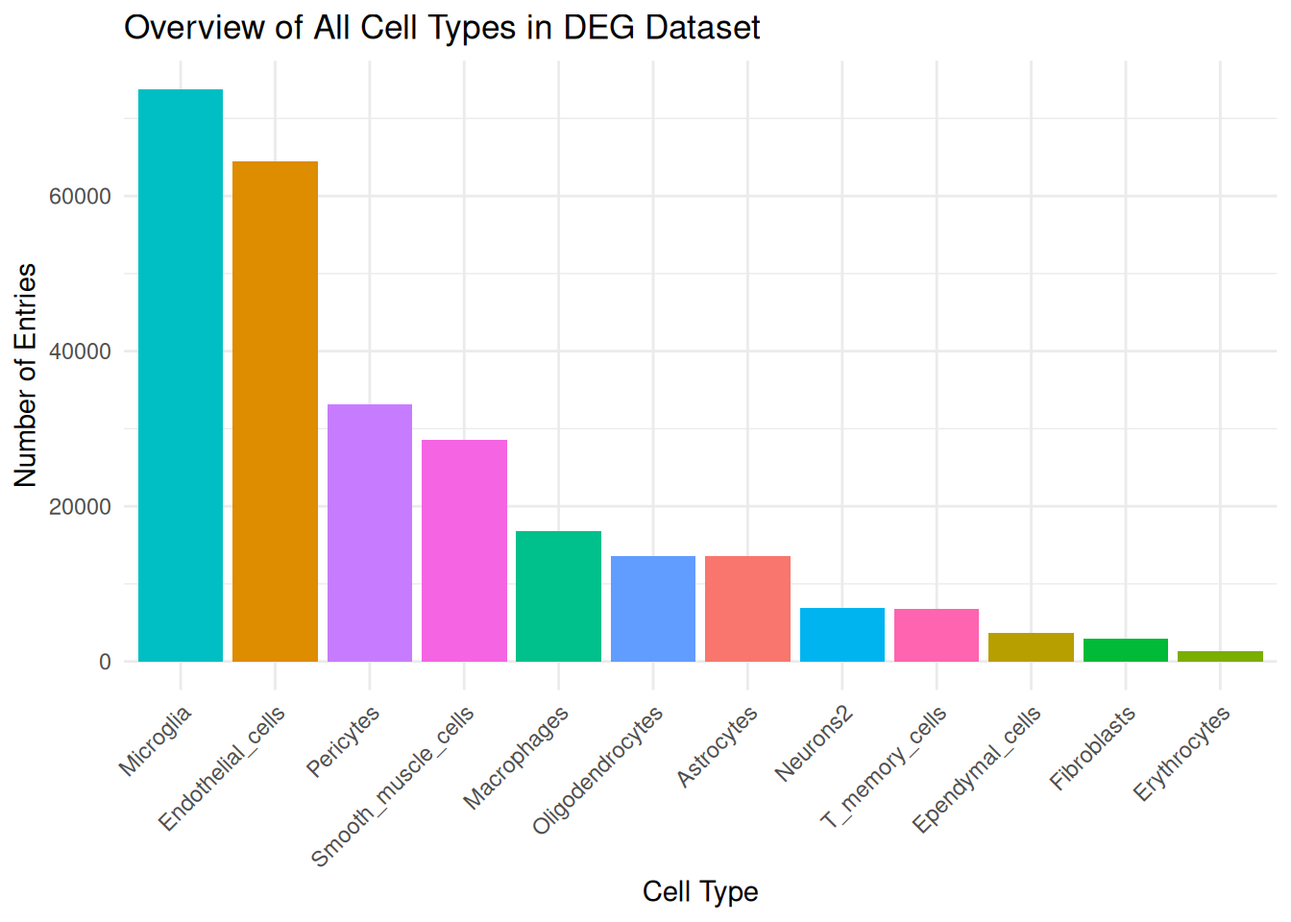
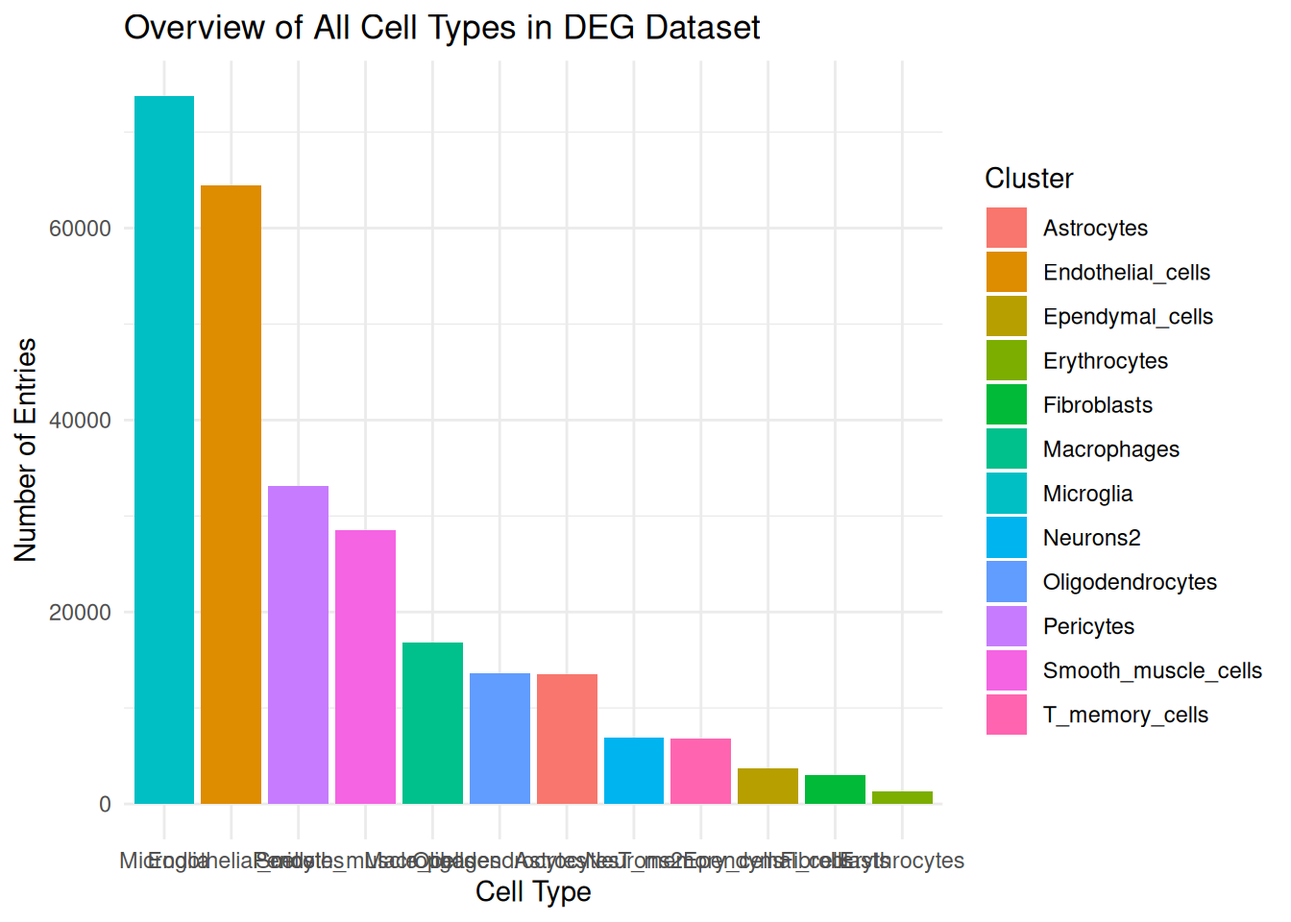
Built site for gh-pages

diff --git a/projects/Project_title.html b/projects/Project_title.html
@@ -192,7 +192,9 @@ pre > code.sourceCode > span > a:first-child::before { text-decoration: underlin
 <div class="sourceCode cell-code" id="cb2"><pre class="sourceCode r code-with-copy"><code class="sourceCode r"><span id="cb2-1"><a href="#cb2-1" aria-hidden="true" tabindex="-1"></a><span class="co"># Load necessary packages</span></span>
 <span id="cb2-2"><a href="#cb2-2" aria-hidden="true" tabindex="-1"></a><span class="fu">library</span>(tidyverse)</span>
 <span id="cb2-3"><a href="#cb2-3" aria-hidden="true" tabindex="-1"></a><span class="fu">library</span>(dplyr)</span>
-<span id="cb2-4"><a href="#cb2-4" aria-hidden="true" tabindex="-1"></a><span class="fu">library</span>(ggplot2)</span></code><button title="Copy to Clipboard" class="code-copy-button"><i class="bi"></i></button></pre></div>
+<span id="cb2-4"><a href="#cb2-4" aria-hidden="true" tabindex="-1"></a><span class="fu">library</span>(ggplot2)</span>
+<span id="cb2-5"><a href="#cb2-5" aria-hidden="true" tabindex="-1"></a><span class="fu">library</span>(tidyr)</span>
+<span id="cb2-6"><a href="#cb2-6" aria-hidden="true" tabindex="-1"></a><span class="fu">library</span>(forcats)</span></code><button title="Copy to Clipboard" class="code-copy-button"><i class="bi"></i></button></pre></div>
 </div>
 <div class="cell">
 <div class="sourceCode cell-code" id="cb3"><pre class="sourceCode r code-with-copy"><code class="sourceCode r"><span id="cb3-1"><a href="#cb3-1" aria-hidden="true" tabindex="-1"></a><span class="co">#look at the data</span></span>
@@ -221,9 +223,7 @@ pre > code.sourceCode > span > a:first-child::before { text-decoration: underlin
 <span id="cb5-9"><a href="#cb5-9" aria-hidden="true" tabindex="-1"></a>  <span class="fu">geom_bar</span>(<span class="at">stat =</span> <span class="st">"identity"</span>) <span class="sc">+</span></span>
 <span id="cb5-10"><a href="#cb5-10" aria-hidden="true" tabindex="-1"></a>  <span class="fu">labs</span>(<span class="at">title =</span> <span class="st">"Overview of All Cell Types in DEG Dataset"</span>,</span>
 <span id="cb5-11"><a href="#cb5-11" aria-hidden="true" tabindex="-1"></a>       <span class="at">x =</span> <span class="st">"Cell Type"</span>, <span class="at">y =</span> <span class="st">"Number of Entries"</span>) <span class="sc">+</span></span>
-<span id="cb5-12"><a href="#cb5-12" aria-hidden="true" tabindex="-1"></a>  <span class="fu">theme_minimal</span>() <span class="sc">+</span></span>
-<span id="cb5-13"><a href="#cb5-13" aria-hidden="true" tabindex="-1"></a>  <span class="fu">theme</span>(<span class="at">axis.text.x =</span> <span class="fu">element_text</span>(<span class="at">angle =</span> <span class="dv">45</span>, <span class="at">hjust =</span> <span class="dv">1</span>),</span>
-<span id="cb5-14"><a href="#cb5-14" aria-hidden="true" tabindex="-1"></a>        <span class="at">legend.position =</span> <span class="st">"none"</span>)</span></code><button title="Copy to Clipboard" class="code-copy-button"><i class="bi"></i></button></pre></div>
+<span id="cb5-12"><a href="#cb5-12" aria-hidden="true" tabindex="-1"></a>  <span class="fu">theme_minimal</span>()</span></code><button title="Copy to Clipboard" class="code-copy-button"><i class="bi"></i></button></pre></div>
 <div class="cell-output-display">
 <div>
 <figure class="figure">
@@ -251,7 +251,7 @@ Endothelial_cells       Macrophages    T_memory_cells
 </div>
 </div>
 <div class="cell">
-<div class="sourceCode cell-code" id="cb8"><pre class="sourceCode r code-with-copy"><code class="sourceCode r"><span id="cb8-1"><a href="#cb8-1" aria-hidden="true" tabindex="-1"></a><span class="co"># Step 1: Broader inflammation/immune gene panel</span></span>
+<div class="sourceCode cell-code" id="cb8"><pre class="sourceCode r code-with-copy"><code class="sourceCode r"><span id="cb8-1"><a href="#cb8-1" aria-hidden="true" tabindex="-1"></a><span class="co"># Step 1: Inflammation/immune gene panel</span></span>
 <span id="cb8-2"><a href="#cb8-2" aria-hidden="true" tabindex="-1"></a>inflammatory_genes <span class="ot">&lt;-</span> <span class="fu">c</span>(</span>
 <span id="cb8-3"><a href="#cb8-3" aria-hidden="true" tabindex="-1"></a>  <span class="st">"Il1b"</span>, <span class="st">"Il6"</span>, <span class="st">"Tnf"</span>, <span class="st">"Ifng"</span>, </span>
 <span id="cb8-4"><a href="#cb8-4" aria-hidden="true" tabindex="-1"></a>  <span class="st">"Ccl2"</span>, <span class="st">"Ccl3"</span>, <span class="st">"Ccl4"</span>, <span class="st">"Cxcl9"</span>, <span class="st">"Cxcl10"</span>,</span>
@@ -260,24 +260,20 @@ Endothelial_cells       Macrophages    T_memory_cells
 <span id="cb8-7"><a href="#cb8-7" aria-hidden="true" tabindex="-1"></a>  <span class="st">"Icam1"</span>, <span class="st">"Vcam1"</span>, <span class="st">"Sele"</span>, <span class="st">"Sell"</span>, </span>
 <span id="cb8-8"><a href="#cb8-8" aria-hidden="true" tabindex="-1"></a>  <span class="st">"Lyz2"</span>, <span class="st">"Nos2"</span>, <span class="st">"Ptprc"</span>)</span>
 <span id="cb8-9"><a href="#cb8-9" aria-hidden="true" tabindex="-1"></a></span>
-<span id="cb8-10"><a href="#cb8-10" aria-hidden="true" tabindex="-1"></a><span class="co"># Step 2: Filter for the genes and relevant cell types</span></span>
-<span id="cb8-11"><a href="#cb8-11" aria-hidden="true" tabindex="-1"></a>cell_types_focus <span class="ot">&lt;-</span> <span class="fu">c</span>(<span class="st">"Endothelial_cells"</span>, <span class="st">"Macrophages"</span>, <span class="st">"T_memory_cells"</span>)</span>
-<span id="cb8-12"><a href="#cb8-12" aria-hidden="true" tabindex="-1"></a></span>
-<span id="cb8-13"><a href="#cb8-13" aria-hidden="true" tabindex="-1"></a>inflamm_subset <span class="ot">&lt;-</span> DEG_data <span class="sc">%&gt;%</span></span>
-<span id="cb8-14"><a href="#cb8-14" aria-hidden="true" tabindex="-1"></a>  <span class="fu">filter</span>(Cluster <span class="sc">%in%</span> cell_types_focus,</span>
-<span id="cb8-15"><a href="#cb8-15" aria-hidden="true" tabindex="-1"></a>         gene_symbol <span class="sc">%in%</span> inflammatory_genes,</span>
-<span id="cb8-16"><a href="#cb8-16" aria-hidden="true" tabindex="-1"></a>         ident<span class="fl">.1</span> <span class="sc">==</span> <span class="st">"G2_old"</span>, ident<span class="fl">.2</span> <span class="sc">==</span> <span class="st">"G1_young"</span>)  <span class="co"># ensure aged vs young only</span></span>
-<span id="cb8-17"><a href="#cb8-17" aria-hidden="true" tabindex="-1"></a></span>
-<span id="cb8-18"><a href="#cb8-18" aria-hidden="true" tabindex="-1"></a><span class="co"># Step 3: Plot as ggplot heatmap</span></span>
-<span id="cb8-19"><a href="#cb8-19" aria-hidden="true" tabindex="-1"></a><span class="fu">ggplot</span>(inflamm_subset, <span class="fu">aes</span>(<span class="at">x =</span> Cluster, <span class="at">y =</span> gene_symbol, <span class="at">fill =</span> avg_log2FC)) <span class="sc">+</span></span>
-<span id="cb8-20"><a href="#cb8-20" aria-hidden="true" tabindex="-1"></a>  <span class="fu">geom_tile</span>(<span class="at">color =</span> <span class="st">"white"</span>) <span class="sc">+</span></span>
-<span id="cb8-21"><a href="#cb8-21" aria-hidden="true" tabindex="-1"></a>  <span class="fu">scale_fill_gradient2</span>(<span class="at">low =</span> <span class="st">"blue"</span>, <span class="at">mid =</span> <span class="st">"white"</span>, <span class="at">high =</span> <span class="st">"red"</span>, <span class="at">midpoint =</span> <span class="dv">0</span>,</span>
-<span id="cb8-22"><a href="#cb8-22" aria-hidden="true" tabindex="-1"></a>                       <span class="at">name =</span> <span class="st">"log2FC"</span>) <span class="sc">+</span></span>
-<span id="cb8-23"><a href="#cb8-23" aria-hidden="true" tabindex="-1"></a>  <span class="fu">labs</span>(<span class="at">title =</span> <span class="st">"Log2 Fold Change of Broad Inflammatory Genes (Aged vs. Young)"</span>,</span>
-<span id="cb8-24"><a href="#cb8-24" aria-hidden="true" tabindex="-1"></a>       <span class="at">x =</span> <span class="st">"Cell Type"</span>, <span class="at">y =</span> <span class="st">"Gene"</span>) <span class="sc">+</span></span>
-<span id="cb8-25"><a href="#cb8-25" aria-hidden="true" tabindex="-1"></a>  <span class="fu">theme_minimal</span>() <span class="sc">+</span></span>
-<span id="cb8-26"><a href="#cb8-26" aria-hidden="true" tabindex="-1"></a>  <span class="fu">theme</span>(<span class="at">axis.text.x =</span> <span class="fu">element_text</span>(<span class="at">angle =</span> <span class="dv">45</span>, <span class="at">hjust =</span> <span class="dv">1</span>),</span>
-<span id="cb8-27"><a href="#cb8-27" aria-hidden="true" tabindex="-1"></a>        <span class="at">panel.grid =</span> <span class="fu">element_blank</span>())</span></code><button title="Copy to Clipboard" class="code-copy-button"><i class="bi"></i></button></pre></div>
+<span id="cb8-10"><a href="#cb8-10" aria-hidden="true" tabindex="-1"></a></span>
+<span id="cb8-11"><a href="#cb8-11" aria-hidden="true" tabindex="-1"></a>inflamm_subset <span class="ot">&lt;-</span> DEG_data <span class="sc">%&gt;%</span></span>
+<span id="cb8-12"><a href="#cb8-12" aria-hidden="true" tabindex="-1"></a>  <span class="fu">filter</span>(Cluster <span class="sc">%in%</span> cell_types,</span>
+<span id="cb8-13"><a href="#cb8-13" aria-hidden="true" tabindex="-1"></a>         gene_symbol <span class="sc">%in%</span> inflammatory_genes,</span>
+<span id="cb8-14"><a href="#cb8-14" aria-hidden="true" tabindex="-1"></a>         ident<span class="fl">.1</span> <span class="sc">==</span> <span class="st">"G2_old"</span>, ident<span class="fl">.2</span> <span class="sc">==</span> <span class="st">"G1_young"</span>)  <span class="co"># ensure aged vs young only</span></span>
+<span id="cb8-15"><a href="#cb8-15" aria-hidden="true" tabindex="-1"></a></span>
+<span id="cb8-16"><a href="#cb8-16" aria-hidden="true" tabindex="-1"></a><span class="co"># Step 3: Plot as ggplot heatmap</span></span>
+<span id="cb8-17"><a href="#cb8-17" aria-hidden="true" tabindex="-1"></a><span class="fu">ggplot</span>(inflamm_subset, <span class="fu">aes</span>(<span class="at">x =</span> Cluster, <span class="at">y =</span> gene_symbol, <span class="at">fill =</span> avg_log2FC)) <span class="sc">+</span></span>
+<span id="cb8-18"><a href="#cb8-18" aria-hidden="true" tabindex="-1"></a>  <span class="fu">geom_tile</span>(<span class="at">color =</span> <span class="st">"white"</span>) <span class="sc">+</span></span>
+<span id="cb8-19"><a href="#cb8-19" aria-hidden="true" tabindex="-1"></a>  <span class="fu">scale_fill_gradient2</span>(<span class="at">low =</span> <span class="st">"blue"</span>, <span class="at">mid =</span> <span class="st">"white"</span>, <span class="at">high =</span> <span class="st">"red"</span>, <span class="at">midpoint =</span> <span class="dv">0</span>,</span>
+<span id="cb8-20"><a href="#cb8-20" aria-hidden="true" tabindex="-1"></a>                       <span class="at">name =</span> <span class="st">"log2FC"</span>) <span class="sc">+</span></span>
+<span id="cb8-21"><a href="#cb8-21" aria-hidden="true" tabindex="-1"></a>  <span class="fu">labs</span>(<span class="at">title =</span> <span class="st">"Log2 Fold Change of Broad Inflammatory Genes (Aged vs. Young)"</span>,</span>
+<span id="cb8-22"><a href="#cb8-22" aria-hidden="true" tabindex="-1"></a>       <span class="at">x =</span> <span class="st">"Cell Type"</span>, <span class="at">y =</span> <span class="st">"Gene"</span>) <span class="sc">+</span></span>
+<span id="cb8-23"><a href="#cb8-23" aria-hidden="true" tabindex="-1"></a>  <span class="fu">theme_minimal</span>()</span></code><button title="Copy to Clipboard" class="code-copy-button"><i class="bi"></i></button></pre></div>
 <div class="cell-output-display">
 <div>
 <figure class="figure">
@@ -289,7 +285,7 @@ Endothelial_cells       Macrophages    T_memory_cells
 </section>
 <section id="gene-function-summary" class="level2">
 <h2 class="anchored" data-anchor-id="gene-function-summary">Gene Function Summary</h2>
-<p>These genes were selected for their roles in inflammation, immune regulation, or endothelial interactions relevant to brain aging:</p>
+<p>These genes were selected for their roles in inflammation, immune regulation, or endothelial interactions:</p>
 <table class="caption-top table">
 <colgroup>
 <col style="width: 44%">
@@ -385,32 +381,61 @@ Endothelial_cells       Macrophages    T_memory_cells
 </div>
 </div>
 <div class="cell">
-<div class="sourceCode cell-code" id="cb10"><pre class="sourceCode r code-with-copy"><code class="sourceCode r"><span id="cb10-1"><a href="#cb10-1" aria-hidden="true" tabindex="-1"></a><span class="fu">library</span>(dplyr)</span>
-<span id="cb10-2"><a href="#cb10-2" aria-hidden="true" tabindex="-1"></a><span class="fu">library</span>(tidyr)</span>
-<span id="cb10-3"><a href="#cb10-3" aria-hidden="true" tabindex="-1"></a><span class="fu">library</span>(ggplot2)</span>
-<span id="cb10-4"><a href="#cb10-4" aria-hidden="true" tabindex="-1"></a><span class="fu">library</span>(forcats)</span>
-<span id="cb10-5"><a href="#cb10-5" aria-hidden="true" tabindex="-1"></a></span>
-<span id="cb10-6"><a href="#cb10-6" aria-hidden="true" tabindex="-1"></a>cell_types_focus <span class="ot">&lt;-</span> <span class="fu">c</span>(<span class="st">"Endothelial_cells"</span>, <span class="st">"Macrophages"</span>, <span class="st">"T_memory_cells"</span>)</span>
-<span id="cb10-7"><a href="#cb10-7" aria-hidden="true" tabindex="-1"></a></span>
-<span id="cb10-8"><a href="#cb10-8" aria-hidden="true" tabindex="-1"></a>sig_deg <span class="ot">&lt;-</span> DEG_data <span class="sc">%&gt;%</span></span>
-<span id="cb10-9"><a href="#cb10-9" aria-hidden="true" tabindex="-1"></a>  <span class="fu">filter</span>(Cluster <span class="sc">%in%</span> cell_types_focus,</span>
-<span id="cb10-10"><a href="#cb10-10" aria-hidden="true" tabindex="-1"></a>         ident<span class="fl">.1</span> <span class="sc">==</span> <span class="st">"G2_old"</span>, ident<span class="fl">.2</span> <span class="sc">==</span> <span class="st">"G1_young"</span>,</span>
-<span id="cb10-11"><a href="#cb10-11" aria-hidden="true" tabindex="-1"></a>         p_val_adj <span class="sc">&lt;</span> <span class="fl">0.05</span>)</span>
-<span id="cb10-12"><a href="#cb10-12" aria-hidden="true" tabindex="-1"></a></span>
-<span id="cb10-13"><a href="#cb10-13" aria-hidden="true" tabindex="-1"></a>top_up   <span class="ot">&lt;-</span> sig_deg <span class="sc">%&gt;%</span></span>
-<span id="cb10-14"><a href="#cb10-14" aria-hidden="true" tabindex="-1"></a>  <span class="fu">group_by</span>(Cluster) <span class="sc">%&gt;%</span></span>
-<span id="cb10-15"><a href="#cb10-15" aria-hidden="true" tabindex="-1"></a>  <span class="fu">slice_max</span>(<span class="at">order_by =</span> avg_log2FC, <span class="at">n =</span> <span class="dv">10</span>, <span class="at">with_ties =</span> <span class="cn">FALSE</span>) <span class="sc">%&gt;%</span></span>
-<span id="cb10-16"><a href="#cb10-16" aria-hidden="true" tabindex="-1"></a>  <span class="fu">mutate</span>(<span class="at">direction =</span> <span class="st">"Up (old vs young)"</span>)</span>
-<span id="cb10-17"><a href="#cb10-17" aria-hidden="true" tabindex="-1"></a></span>
-<span id="cb10-18"><a href="#cb10-18" aria-hidden="true" tabindex="-1"></a>top_down <span class="ot">&lt;-</span> sig_deg <span class="sc">%&gt;%</span></span>
-<span id="cb10-19"><a href="#cb10-19" aria-hidden="true" tabindex="-1"></a>  <span class="fu">group_by</span>(Cluster) <span class="sc">%&gt;%</span></span>
-<span id="cb10-20"><a href="#cb10-20" aria-hidden="true" tabindex="-1"></a>  <span class="fu">slice_min</span>(<span class="at">order_by =</span> avg_log2FC, <span class="at">n =</span> <span class="dv">10</span>, <span class="at">with_ties =</span> <span class="cn">FALSE</span>) <span class="sc">%&gt;%</span></span>
-<span id="cb10-21"><a href="#cb10-21" aria-hidden="true" tabindex="-1"></a>  <span class="fu">mutate</span>(<span class="at">direction =</span> <span class="st">"Down (old vs young)"</span>)</span>
-<span id="cb10-22"><a href="#cb10-22" aria-hidden="true" tabindex="-1"></a></span>
-<span id="cb10-23"><a href="#cb10-23" aria-hidden="true" tabindex="-1"></a>top10_both <span class="ot">&lt;-</span> <span class="fu">bind_rows</span>(top_up, top_down) <span class="sc">%&gt;%</span></span>
-<span id="cb10-24"><a href="#cb10-24" aria-hidden="true" tabindex="-1"></a>  <span class="fu">arrange</span>(Cluster, <span class="fu">desc</span>(avg_log2FC))</span>
-<span id="cb10-25"><a href="#cb10-25" aria-hidden="true" tabindex="-1"></a></span>
-<span id="cb10-26"><a href="#cb10-26" aria-hidden="true" tabindex="-1"></a>top10_both</span></code><button title="Copy to Clipboard" class="code-copy-button"><i class="bi"></i></button></pre></div>
+<div class="sourceCode cell-code" id="cb10"><pre class="sourceCode r code-with-copy"><code class="sourceCode r"><span id="cb10-1"><a href="#cb10-1" aria-hidden="true" tabindex="-1"></a><span class="co"># Filter for macrophages aged vs young</span></span>
+<span id="cb10-2"><a href="#cb10-2" aria-hidden="true" tabindex="-1"></a>macrophage_deg <span class="ot">&lt;-</span> DEG_data <span class="sc">%&gt;%</span></span>
+<span id="cb10-3"><a href="#cb10-3" aria-hidden="true" tabindex="-1"></a>  <span class="fu">filter</span>(Cluster <span class="sc">==</span> <span class="st">"Macrophages"</span>,</span>
+<span id="cb10-4"><a href="#cb10-4" aria-hidden="true" tabindex="-1"></a>         ident<span class="fl">.1</span> <span class="sc">==</span> <span class="st">"G2_old"</span>, ident<span class="fl">.2</span> <span class="sc">==</span> <span class="st">"G1_young"</span>) <span class="sc">%&gt;%</span></span>
+<span id="cb10-5"><a href="#cb10-5" aria-hidden="true" tabindex="-1"></a>  <span class="fu">mutate</span>(<span class="at">log10_pval =</span> <span class="sc">-</span><span class="fu">log10</span>(p_val_adj),</span>
+<span id="cb10-6"><a href="#cb10-6" aria-hidden="true" tabindex="-1"></a>         <span class="at">regulation =</span> <span class="fu">case_when</span>(</span>
+<span id="cb10-7"><a href="#cb10-7" aria-hidden="true" tabindex="-1"></a>           p_val_adj <span class="sc">&lt;</span> <span class="fl">0.05</span> <span class="sc">&amp;</span> avg_log2FC <span class="sc">&gt;</span> <span class="dv">1</span> <span class="sc">~</span> <span class="st">"Upregulated"</span>,</span>
+<span id="cb10-8"><a href="#cb10-8" aria-hidden="true" tabindex="-1"></a>           p_val_adj <span class="sc">&lt;</span> <span class="fl">0.05</span> <span class="sc">&amp;</span> avg_log2FC <span class="sc">&lt;</span> <span class="sc">-</span><span class="dv">1</span> <span class="sc">~</span> <span class="st">"Downregulated"</span>,</span>
+<span id="cb10-9"><a href="#cb10-9" aria-hidden="true" tabindex="-1"></a>           <span class="cn">TRUE</span> <span class="sc">~</span> <span class="st">"Not significant"</span></span>
+<span id="cb10-10"><a href="#cb10-10" aria-hidden="true" tabindex="-1"></a>         ))</span>
+<span id="cb10-11"><a href="#cb10-11" aria-hidden="true" tabindex="-1"></a></span>
+<span id="cb10-12"><a href="#cb10-12" aria-hidden="true" tabindex="-1"></a><span class="co"># Plot</span></span>
+<span id="cb10-13"><a href="#cb10-13" aria-hidden="true" tabindex="-1"></a><span class="fu">ggplot</span>(macrophage_deg, <span class="fu">aes</span>(<span class="at">x =</span> avg_log2FC, <span class="at">y =</span> log10_pval)) <span class="sc">+</span></span>
+<span id="cb10-14"><a href="#cb10-14" aria-hidden="true" tabindex="-1"></a>  <span class="fu">geom_point</span>(<span class="fu">aes</span>(<span class="at">color =</span> regulation), <span class="at">alpha =</span> <span class="fl">0.7</span>, <span class="at">size =</span> <span class="dv">2</span>) <span class="sc">+</span></span>
+<span id="cb10-15"><a href="#cb10-15" aria-hidden="true" tabindex="-1"></a>  <span class="fu">scale_color_manual</span>(<span class="at">values =</span> <span class="fu">c</span>(</span>
+<span id="cb10-16"><a href="#cb10-16" aria-hidden="true" tabindex="-1"></a>    <span class="st">"Upregulated"</span> <span class="ot">=</span> <span class="st">"firebrick2"</span>,</span>
+<span id="cb10-17"><a href="#cb10-17" aria-hidden="true" tabindex="-1"></a>    <span class="st">"Downregulated"</span> <span class="ot">=</span> <span class="st">"dodgerblue3"</span>,</span>
+<span id="cb10-18"><a href="#cb10-18" aria-hidden="true" tabindex="-1"></a>    <span class="st">"Not significant"</span> <span class="ot">=</span> <span class="st">"grey70"</span></span>
+<span id="cb10-19"><a href="#cb10-19" aria-hidden="true" tabindex="-1"></a>  )) <span class="sc">+</span></span>
+<span id="cb10-20"><a href="#cb10-20" aria-hidden="true" tabindex="-1"></a>  <span class="fu">geom_vline</span>(<span class="at">xintercept =</span> <span class="fu">c</span>(<span class="sc">-</span><span class="dv">1</span>, <span class="dv">1</span>), <span class="at">linetype =</span> <span class="st">"dashed"</span>, <span class="at">color =</span> <span class="st">"gray50"</span>) <span class="sc">+</span></span>
+<span id="cb10-21"><a href="#cb10-21" aria-hidden="true" tabindex="-1"></a>  <span class="fu">geom_hline</span>(<span class="at">yintercept =</span> <span class="sc">-</span><span class="fu">log10</span>(<span class="fl">0.05</span>), <span class="at">linetype =</span> <span class="st">"dashed"</span>, <span class="at">color =</span> <span class="st">"gray50"</span>) <span class="sc">+</span></span>
+<span id="cb10-22"><a href="#cb10-22" aria-hidden="true" tabindex="-1"></a>  <span class="fu">labs</span>(<span class="at">title =</span> <span class="st">"Volcano Plot: Macrophages (Aged vs Young)"</span>,</span>
+<span id="cb10-23"><a href="#cb10-23" aria-hidden="true" tabindex="-1"></a>       <span class="at">x =</span> <span class="st">"log2 Fold Change"</span>,</span>
+<span id="cb10-24"><a href="#cb10-24" aria-hidden="true" tabindex="-1"></a>       <span class="at">y =</span> <span class="st">"-log10 Adjusted p-value"</span>,</span>
+<span id="cb10-25"><a href="#cb10-25" aria-hidden="true" tabindex="-1"></a>       <span class="at">color =</span> <span class="st">"Regulation"</span>) <span class="sc">+</span></span>
+<span id="cb10-26"><a href="#cb10-26" aria-hidden="true" tabindex="-1"></a>  <span class="fu">theme_minimal</span>(<span class="at">base_size =</span> <span class="dv">13</span>) <span class="sc">+</span></span>
+<span id="cb10-27"><a href="#cb10-27" aria-hidden="true" tabindex="-1"></a>  <span class="fu">theme</span>(<span class="at">legend.position =</span> <span class="st">"top"</span>)</span></code><button title="Copy to Clipboard" class="code-copy-button"><i class="bi"></i></button></pre></div>
+<div class="cell-output-display">
+<div>
+<figure class="figure">
+<p><img src="Project_title_files/figure-html/unnamed-chunk-8-1.png" class="img-fluid figure-img" width="672"></p>
+</figure>
+</div>
+</div>
+</div>
+<div class="cell">
+<div class="sourceCode cell-code" id="cb11"><pre class="sourceCode r code-with-copy"><code class="sourceCode r"><span id="cb11-1"><a href="#cb11-1" aria-hidden="true" tabindex="-1"></a>sig_deg <span class="ot">&lt;-</span> DEG_data <span class="sc">%&gt;%</span></span>
+<span id="cb11-2"><a href="#cb11-2" aria-hidden="true" tabindex="-1"></a>  <span class="fu">filter</span>(Cluster <span class="sc">%in%</span> cell_types,</span>
+<span id="cb11-3"><a href="#cb11-3" aria-hidden="true" tabindex="-1"></a>         ident<span class="fl">.1</span> <span class="sc">==</span> <span class="st">"G2_old"</span>, ident<span class="fl">.2</span> <span class="sc">==</span> <span class="st">"G1_young"</span>,</span>
+<span id="cb11-4"><a href="#cb11-4" aria-hidden="true" tabindex="-1"></a>         p_val_adj <span class="sc">&lt;</span> <span class="fl">0.05</span>)</span>
+<span id="cb11-5"><a href="#cb11-5" aria-hidden="true" tabindex="-1"></a></span>
+<span id="cb11-6"><a href="#cb11-6" aria-hidden="true" tabindex="-1"></a>top_up   <span class="ot">&lt;-</span> sig_deg <span class="sc">%&gt;%</span></span>
+<span id="cb11-7"><a href="#cb11-7" aria-hidden="true" tabindex="-1"></a>  <span class="fu">group_by</span>(Cluster) <span class="sc">%&gt;%</span></span>
+<span id="cb11-8"><a href="#cb11-8" aria-hidden="true" tabindex="-1"></a>  <span class="fu">slice_max</span>(<span class="at">order_by =</span> avg_log2FC, <span class="at">n =</span> <span class="dv">10</span>, <span class="at">with_ties =</span> <span class="cn">FALSE</span>) <span class="sc">%&gt;%</span></span>
+<span id="cb11-9"><a href="#cb11-9" aria-hidden="true" tabindex="-1"></a>  <span class="fu">mutate</span>(<span class="at">direction =</span> <span class="st">"Up (old vs young)"</span>)</span>
+<span id="cb11-10"><a href="#cb11-10" aria-hidden="true" tabindex="-1"></a></span>
+<span id="cb11-11"><a href="#cb11-11" aria-hidden="true" tabindex="-1"></a>top_down <span class="ot">&lt;-</span> sig_deg <span class="sc">%&gt;%</span></span>
+<span id="cb11-12"><a href="#cb11-12" aria-hidden="true" tabindex="-1"></a>  <span class="fu">group_by</span>(Cluster) <span class="sc">%&gt;%</span></span>
+<span id="cb11-13"><a href="#cb11-13" aria-hidden="true" tabindex="-1"></a>  <span class="fu">slice_min</span>(<span class="at">order_by =</span> avg_log2FC, <span class="at">n =</span> <span class="dv">10</span>, <span class="at">with_ties =</span> <span class="cn">FALSE</span>) <span class="sc">%&gt;%</span></span>
+<span id="cb11-14"><a href="#cb11-14" aria-hidden="true" tabindex="-1"></a>  <span class="fu">mutate</span>(<span class="at">direction =</span> <span class="st">"Down (old vs young)"</span>)</span>
+<span id="cb11-15"><a href="#cb11-15" aria-hidden="true" tabindex="-1"></a></span>
+<span id="cb11-16"><a href="#cb11-16" aria-hidden="true" tabindex="-1"></a>top10_both <span class="ot">&lt;-</span> <span class="fu">bind_rows</span>(top_up, top_down) <span class="sc">%&gt;%</span></span>
+<span id="cb11-17"><a href="#cb11-17" aria-hidden="true" tabindex="-1"></a>  <span class="fu">arrange</span>(Cluster, <span class="fu">desc</span>(avg_log2FC))</span>
+<span id="cb11-18"><a href="#cb11-18" aria-hidden="true" tabindex="-1"></a></span>
+<span id="cb11-19"><a href="#cb11-19" aria-hidden="true" tabindex="-1"></a>top10_both</span></code><button title="Copy to Clipboard" class="code-copy-button"><i class="bi"></i></button></pre></div>
 <div class="cell-output cell-output-stdout">
 <pre><code># A tibble: 60 × 10
 # Groups:   Cluster [3]
@@ -431,13 +456,13 @@ Endothelial_cells       Macrophages    T_memory_cells
 </div>
 </div>
 <div class="cell">
-<div class="sourceCode cell-code" id="cb12"><pre class="sourceCode r code-with-copy"><code class="sourceCode r"><span id="cb12-1"><a href="#cb12-1" aria-hidden="true" tabindex="-1"></a><span class="fu">library</span>(knitr)</span>
-<span id="cb12-2"><a href="#cb12-2" aria-hidden="true" tabindex="-1"></a></span>
-<span id="cb12-3"><a href="#cb12-3" aria-hidden="true" tabindex="-1"></a>top10_both <span class="sc">%&gt;%</span></span>
-<span id="cb12-4"><a href="#cb12-4" aria-hidden="true" tabindex="-1"></a>  <span class="fu">select</span>(Cluster, gene_symbol, avg_log2FC, p_val_adj, direction) <span class="sc">%&gt;%</span></span>
-<span id="cb12-5"><a href="#cb12-5" aria-hidden="true" tabindex="-1"></a>  <span class="fu">mutate</span>(<span class="at">p_val_adj =</span> <span class="fu">signif</span>(p_val_adj, <span class="dv">3</span>)) <span class="sc">%&gt;%</span></span>
-<span id="cb12-6"><a href="#cb12-6" aria-hidden="true" tabindex="-1"></a>  <span class="fu">kable</span>(<span class="at">format =</span> <span class="st">"html"</span>, <span class="at">digits =</span> <span class="dv">2</span>, </span>
-<span id="cb12-7"><a href="#cb12-7" aria-hidden="true" tabindex="-1"></a>        <span class="at">caption =</span> <span class="st">"Top 10 Up &amp; Down Genes per Cell Type (Aged vs Young)"</span>)</span></code><button title="Copy to Clipboard" class="code-copy-button"><i class="bi"></i></button></pre></div>
+<div class="sourceCode cell-code" id="cb13"><pre class="sourceCode r code-with-copy"><code class="sourceCode r"><span id="cb13-1"><a href="#cb13-1" aria-hidden="true" tabindex="-1"></a><span class="fu">library</span>(knitr)</span>
+<span id="cb13-2"><a href="#cb13-2" aria-hidden="true" tabindex="-1"></a></span>
+<span id="cb13-3"><a href="#cb13-3" aria-hidden="true" tabindex="-1"></a>top10_both <span class="sc">%&gt;%</span></span>
+<span id="cb13-4"><a href="#cb13-4" aria-hidden="true" tabindex="-1"></a>  <span class="fu">select</span>(Cluster, gene_symbol, avg_log2FC, p_val_adj, direction) <span class="sc">%&gt;%</span></span>
+<span id="cb13-5"><a href="#cb13-5" aria-hidden="true" tabindex="-1"></a>  <span class="fu">mutate</span>(<span class="at">p_val_adj =</span> <span class="fu">signif</span>(p_val_adj, <span class="dv">3</span>)) <span class="sc">%&gt;%</span></span>
+<span id="cb13-6"><a href="#cb13-6" aria-hidden="true" tabindex="-1"></a>  <span class="fu">kable</span>(<span class="at">format =</span> <span class="st">"html"</span>, <span class="at">digits =</span> <span class="dv">2</span>, </span>
+<span id="cb13-7"><a href="#cb13-7" aria-hidden="true" tabindex="-1"></a>        <span class="at">caption =</span> <span class="st">"Top 10 Up &amp; Down Genes per Cell Type (Aged vs Young)"</span>)</span></code><button title="Copy to Clipboard" class="code-copy-button"><i class="bi"></i></button></pre></div>
 <div class="cell-output-display">
 <table class="caption-top table table-sm table-striped small" data-quarto-postprocess="true">
 <caption>Top 10 Up &amp; Down Genes per Cell Type (Aged vs Young)</caption>
@@ -876,25 +901,25 @@ Endothelial_cells       Macrophages    T_memory_cells
 </div>
 </div>
 <div class="cell">
-<div class="sourceCode cell-code" id="cb13"><pre class="sourceCode r code-with-copy"><code class="sourceCode r"><span id="cb13-1"><a href="#cb13-1" aria-hidden="true" tabindex="-1"></a><span class="fu">ggplot</span>(top10_both,</span>
-<span id="cb13-2"><a href="#cb13-2" aria-hidden="true" tabindex="-1"></a>       <span class="fu">aes</span>(<span class="at">x =</span> <span class="fu">fct_reorder</span>(gene_symbol, avg_log2FC),</span>
-<span id="cb13-3"><a href="#cb13-3" aria-hidden="true" tabindex="-1"></a>           <span class="at">y =</span> avg_log2FC,</span>
-<span id="cb13-4"><a href="#cb13-4" aria-hidden="true" tabindex="-1"></a>           <span class="at">color =</span> direction)) <span class="sc">+</span></span>
-<span id="cb13-5"><a href="#cb13-5" aria-hidden="true" tabindex="-1"></a>  <span class="fu">geom_point</span>(<span class="at">size =</span> <span class="dv">3</span>) <span class="sc">+</span></span>
-<span id="cb13-6"><a href="#cb13-6" aria-hidden="true" tabindex="-1"></a>  <span class="fu">geom_segment</span>(<span class="fu">aes</span>(<span class="at">xend =</span> gene_symbol, <span class="at">y =</span> <span class="dv">0</span>, <span class="at">yend =</span> avg_log2FC),</span>
-<span id="cb13-7"><a href="#cb13-7" aria-hidden="true" tabindex="-1"></a>               <span class="at">linewidth =</span> <span class="fl">0.6</span>) <span class="sc">+</span></span>
-<span id="cb13-8"><a href="#cb13-8" aria-hidden="true" tabindex="-1"></a>  <span class="fu">facet_wrap</span>(<span class="sc">~</span> Cluster, <span class="at">scales =</span> <span class="st">"free_y"</span>) <span class="sc">+</span></span>
-<span id="cb13-9"><a href="#cb13-9" aria-hidden="true" tabindex="-1"></a>  <span class="fu">coord_flip</span>() <span class="sc">+</span></span>
-<span id="cb13-10"><a href="#cb13-10" aria-hidden="true" tabindex="-1"></a>  <span class="fu">scale_color_manual</span>(<span class="at">values =</span> <span class="fu">c</span>(<span class="st">"Up (old vs young)"</span> <span class="ot">=</span> <span class="st">"firebrick2"</span>,</span>
-<span id="cb13-11"><a href="#cb13-11" aria-hidden="true" tabindex="-1"></a>                                <span class="st">"Down (old vs young)"</span> <span class="ot">=</span> <span class="st">"dodgerblue3"</span>)) <span class="sc">+</span></span>
-<span id="cb13-12"><a href="#cb13-12" aria-hidden="true" tabindex="-1"></a>  <span class="fu">labs</span>(<span class="at">title =</span> <span class="st">"Top 10 Up &amp; Down DEGs per Cell Type (Aged vs Young)"</span>,</span>
-<span id="cb13-13"><a href="#cb13-13" aria-hidden="true" tabindex="-1"></a>       <span class="at">x =</span> <span class="st">"Gene"</span>, <span class="at">y =</span> <span class="st">"log2FC (old vs young)"</span>, <span class="at">color =</span> <span class="st">""</span>) <span class="sc">+</span></span>
-<span id="cb13-14"><a href="#cb13-14" aria-hidden="true" tabindex="-1"></a>  <span class="fu">theme_minimal</span>(<span class="at">base_size =</span> <span class="dv">12</span>) <span class="sc">+</span></span>
-<span id="cb13-15"><a href="#cb13-15" aria-hidden="true" tabindex="-1"></a>  <span class="fu">theme</span>(<span class="at">legend.position =</span> <span class="st">"top"</span>)</span></code><button title="Copy to Clipboard" class="code-copy-button"><i class="bi"></i></button></pre></div>
+<div class="sourceCode cell-code" id="cb14"><pre class="sourceCode r code-with-copy"><code class="sourceCode r"><span id="cb14-1"><a href="#cb14-1" aria-hidden="true" tabindex="-1"></a><span class="fu">ggplot</span>(top10_both,</span>
+<span id="cb14-2"><a href="#cb14-2" aria-hidden="true" tabindex="-1"></a>       <span class="fu">aes</span>(<span class="at">x =</span> <span class="fu">fct_reorder</span>(gene_symbol, avg_log2FC),</span>
+<span id="cb14-3"><a href="#cb14-3" aria-hidden="true" tabindex="-1"></a>           <span class="at">y =</span> avg_log2FC,</span>
+<span id="cb14-4"><a href="#cb14-4" aria-hidden="true" tabindex="-1"></a>           <span class="at">color =</span> direction)) <span class="sc">+</span></span>
+<span id="cb14-5"><a href="#cb14-5" aria-hidden="true" tabindex="-1"></a>  <span class="fu">geom_point</span>(<span class="at">size =</span> <span class="dv">3</span>) <span class="sc">+</span></span>
+<span id="cb14-6"><a href="#cb14-6" aria-hidden="true" tabindex="-1"></a>  <span class="fu">geom_segment</span>(<span class="fu">aes</span>(<span class="at">xend =</span> gene_symbol, <span class="at">y =</span> <span class="dv">0</span>, <span class="at">yend =</span> avg_log2FC),</span>
+<span id="cb14-7"><a href="#cb14-7" aria-hidden="true" tabindex="-1"></a>               <span class="at">linewidth =</span> <span class="fl">0.6</span>) <span class="sc">+</span></span>
+<span id="cb14-8"><a href="#cb14-8" aria-hidden="true" tabindex="-1"></a>  <span class="fu">facet_wrap</span>(<span class="sc">~</span> Cluster, <span class="at">scales =</span> <span class="st">"free_y"</span>) <span class="sc">+</span></span>
+<span id="cb14-9"><a href="#cb14-9" aria-hidden="true" tabindex="-1"></a>  <span class="fu">coord_flip</span>() <span class="sc">+</span></span>
+<span id="cb14-10"><a href="#cb14-10" aria-hidden="true" tabindex="-1"></a>  <span class="fu">scale_color_manual</span>(<span class="at">values =</span> <span class="fu">c</span>(<span class="st">"Up (old vs young)"</span> <span class="ot">=</span> <span class="st">"firebrick2"</span>,</span>
+<span id="cb14-11"><a href="#cb14-11" aria-hidden="true" tabindex="-1"></a>                                <span class="st">"Down (old vs young)"</span> <span class="ot">=</span> <span class="st">"dodgerblue3"</span>)) <span class="sc">+</span></span>
+<span id="cb14-12"><a href="#cb14-12" aria-hidden="true" tabindex="-1"></a>  <span class="fu">labs</span>(<span class="at">title =</span> <span class="st">"Top 10 Up &amp; Down DEGs per Cell Type (Aged vs Young)"</span>,</span>
+<span id="cb14-13"><a href="#cb14-13" aria-hidden="true" tabindex="-1"></a>       <span class="at">x =</span> <span class="st">"Gene"</span>, <span class="at">y =</span> <span class="st">"log2FC (old vs young)"</span>, <span class="at">color =</span> <span class="st">""</span>) <span class="sc">+</span></span>
+<span id="cb14-14"><a href="#cb14-14" aria-hidden="true" tabindex="-1"></a>  <span class="fu">theme_minimal</span>(<span class="at">base_size =</span> <span class="dv">12</span>) <span class="sc">+</span></span>
+<span id="cb14-15"><a href="#cb14-15" aria-hidden="true" tabindex="-1"></a>  <span class="fu">theme</span>(<span class="at">legend.position =</span> <span class="st">"top"</span>)</span></code><button title="Copy to Clipboard" class="code-copy-button"><i class="bi"></i></button></pre></div>
 <div class="cell-output-display">
 <div>
 <figure class="figure">
-<p><img src="Project_title_files/figure-html/unnamed-chunk-10-1.png" class="img-fluid figure-img" width="672"></p>
+<p><img src="Project_title_files/figure-html/unnamed-chunk-11-1.png" class="img-fluid figure-img" width="672"></p>
 </figure>
 </div>
 </div>

diff --git a/projects.html b/projects.html
@@ -216,7 +216,7 @@ Author
 </thead>
 <tbody class="list">
 
-<tr data-index="0" data-listing-file-modified-sort="1753581107805" data-listing-reading-time-sort="7" data-listing-word-count-sort="1304" data-listing-title-sort="Exploring Age-Related Immune–Vascular Changes in the Brain Using Single-Cell RNA-seq" data-listing-filename-sort="Project_title.qmd">
+<tr data-index="0" data-listing-file-modified-sort="1753581922522" data-listing-reading-time-sort="8" data-listing-word-count-sort="1463" data-listing-title-sort="Exploring Age-Related Immune–Vascular Changes in the Brain Using Single-Cell RNA-seq" data-listing-filename-sort="Project_title.qmd">
 <td>
 <a href="./projects/Project_title.html" class="title listing-title">Exploring Age-Related Immune–Vascular Changes in the Brain Using Single-Cell RNA-seq</a>
 </td>
